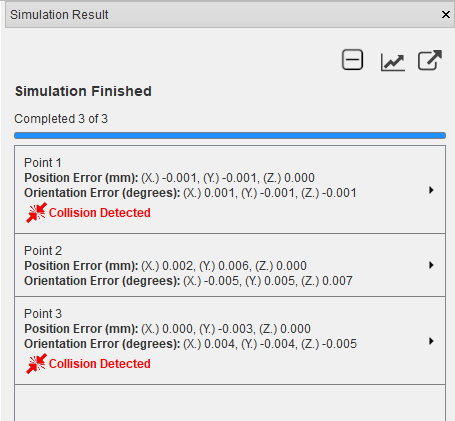
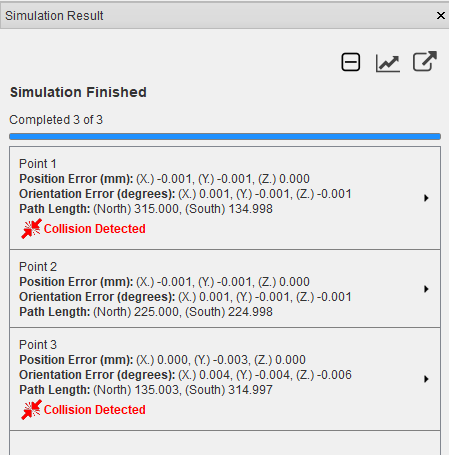
Updates docs on path length plotter and more, adds update check setting to preference dialog, and allows project files to be loaded via command line

diff --git a/sscanss/ui/dialogs/preferences.py b/sscanss/ui/dialogs/preferences.py
@@ -19,6 +19,7 @@ class Preferences(QtWidgets.QDialog):
 
         self.changed_settings = {}
         self.group = []
+        self.global_names = []
         layout = QtWidgets.QVBoxLayout()
         self.setLayout(layout)
 
@@ -216,7 +217,20 @@ class Preferences(QtWidgets.QDialog):
         main_layout = QtWidgets.QVBoxLayout()
 
         layout = QtWidgets.QHBoxLayout()
+        key = settings.Key.Check_Update
+        self.global_names.append(key)
+        value = settings.value(key)
+        checkbox = QtWidgets.QCheckBox('Check for updates on startup')
+        checkbox.setChecked(value)
+        checkbox.stateChanged.connect(lambda ignore, c=checkbox: self.changeSetting(c.isChecked()))
+        checkbox.setProperty(self.prop_name, (key, value))
+        layout.addWidget(checkbox)
+        main_layout.addLayout(layout)
+        main_layout.addSpacing(10)
+
+        layout = QtWidgets.QHBoxLayout()
         key = settings.Key.Custom_Instruments_Path
+        self.global_names.append(key)
         value = settings.value(key)
         layout.addWidget(QtWidgets.QLabel('Custom Instruments: '))
         path_picker = FilePicker(value, select_folder=True)
@@ -224,6 +238,7 @@ class Preferences(QtWidgets.QDialog):
         path_picker.value_changed.connect(self.changeSetting)
         layout.addWidget(path_picker)
         main_layout.addLayout(layout)
+
         main_layout.addStretch(1)
         frame.setLayout(main_layout)
         self.stack.addWidget(create_scroll_area(frame))
@@ -407,7 +422,7 @@ class Preferences(QtWidgets.QDialog):
         reset_undo_stack = False
         for key, value in self.changed_settings.items():
             # For now general setting are considered as system settings
-            if key.value.startswith(settings.Group.General.value):
+            if key in self.global_names:
                 settings.system.setValue(key.value, value)
             else:
                 settings.setValue(key, value, default)

diff --git a/editor/main.py b/editor/main.py
@@ -1,6 +1,7 @@
 import datetime
 import logging
 import os
+import pathlib
 import sys
 import webbrowser
 from jsonschema.exceptions import ValidationError
@@ -304,13 +305,23 @@ class Window(QtWidgets.QMainWindow):
         self.controls.close()
         self.message.setText('')
 
-    def openFile(self):
-        """Loads an instrument description file selected from a file dialog."""
-        filename, _ = QtWidgets.QFileDialog.getOpenFileName(self, 'Open Instrument Description File', '',
-                                                            'Json File (*.json)')
-        
-        if not filename:
+    def openFile(self, filename=''):
+        """Loads an instrument description file from a given file path. If filename
+        is empty, a file dialog will be opened.
+
+        :param filename: full path of file
+        :type filename: str
+        """
+
+        if self.unsaved and not self.showSaveDiscardMessage():
             return
+
+        if not filename:
+            filename, _ = QtWidgets.QFileDialog.getOpenFileName(self, 'Open Instrument Description File', '',
+                                                                'Json File (*.json)')
+
+            if not filename:
+                return
 
         try:
             with open(filename, 'r') as idf:
@@ -479,8 +490,16 @@ if __name__ == '__main__':
     setup_logging('editor.log')
     app = QtWidgets.QApplication([])
     app.setStyleSheet(style)
-    w = Window()
-    w.show()
+    window = Window()
+
+    if sys.argv[1:]:
+        file_path = sys.argv[1]
+        if pathlib.PurePath(file_path).suffix == '.json':
+            window.openFile(file_path)
+        else:
+            window.message.setText(f'{file_path} could not be opened because it has an unknown file type')
+
+    window.show()
     exit_code = app.exec_()
     logging.shutdown()
     sys.exit(exit_code)

diff --git a/sscanss/main.py b/sscanss/main.py
@@ -1,6 +1,7 @@
 from contextlib import suppress
 import logging
 import multiprocessing
+import pathlib
 import sys
 from PyQt5 import QtCore, QtWidgets
 from sscanss.config import setup_logging, STATIC_PATH, IMAGES_PATH
@@ -9,7 +10,7 @@ from sscanss.ui.window.view import MainWindow
 
 def ui_execute():
     # Create the GUI event loop
-    app = QtWidgets.QApplication(sys.argv)
+    app = QtWidgets.QApplication(sys.argv[:1])
 
     # Load global style
     with suppress(FileNotFoundError):
@@ -18,12 +19,20 @@ def ui_execute():
             app.setStyleSheet(style)
 
     window = MainWindow()
+
+    wait_time = 500  # time for main window to show
+    if sys.argv[1:]:
+        filename = sys.argv[1]
+        if pathlib.PurePath(filename).suffix == '.h5':
+            window.openProject(filename)
+        else:
+            msg = f'{filename} could not be opened because it has an unknown file type'
+            QtCore.QTimer.singleShot(wait_time, lambda: window.showMessage(msg))
+    else:
+        QtCore.QTimer.singleShot(wait_time, window.showNewProjectDialog)
+
     window.show()
     window.updater.check(True)
-
-    # Wait for 0.5 seconds before opening project dialog
-    QtCore.QTimer.singleShot(500, window.showNewProjectDialog)
-
     return app.exec()
 
 

diff --git a/docs/interface.rst b/docs/interface.rst
@@ -80,14 +80,14 @@ click save.
 Change preferences
 ******************
 The Preferences contains settings to customize SScanSS 2. The preference dialog can be opened using the shortcut
-**Ctrl + Shift + P** or by clicking  **Edit > Preferences**.
+**Ctrl + Shift + P** or by clicking **Edit > Preferences** in the main menu.
 
 The preferences dialog divides the setting into 3 sections: General, Graphics and Simulation.
 
-* The general section allows a custom path for extra instrument to be set.
-* The graphics section allows the colour and sizes of most rendered object to be changed, all the graphics settings
+* In the General section, global settings such as custom instrument path and update checks can be changed.
+* In the Graphics section, the colour and sizes of most rendered object can be changed, all the graphics settings
   are self-explanatory.
-* The simulation section allows the changes to simulation accuracy, order etc. each setting is explained
+* In the Simulation section, the simulation accuracy, order etc. can be tweaked, each setting is explained in detail
   :ref:`here <advanced options>`.
 
 .. image:: images/preferences.png
@@ -98,8 +98,8 @@ The preferences dialog divides the setting into 3 sections: General, Graphics an
 Settings can be global or project specific. For the latter, clicking **Accept** will save the changes to the project
 settings and **Reset** returns the project settings to their default values. The project setting will be written to the
 hdf save file on saving the project. To change the global defaults select **Reset Default** or **Set As Default** from
-the **Reset** or **Accept** dropdown respectively. General settings are global only while other settings could be either.
-Clicking **Cancel** will close the dialog without saving any changes.
+the **Reset** or **Accept** drop-down menu respectively. General settings are global only while other settings could be
+either. Clicking **Cancel** will close the dialog without saving any changes.
 
 .. note:: The **Accept** button is disabled if no values are changed.
 

diff --git a/docs/overview.rst b/docs/overview.rst
@@ -48,10 +48,18 @@ software.
 ******************
 Updating SScanSS 2
 ******************
-SScanSS 2 automatically checks for update when the software is opened. To change this behaviour, do the following:
+SScanSS 2 automatically checks for updates when the software is opened. To change this behaviour, do the following:
 
-1. Click **Help > Check for Update** in the menu, to update dialog.
-2. In the dialog, uncheck the **Check for updates on startup** checkbox.
+1. Click **Edit > Preferences** in the main menu to open the preference dialog.
+2. In the General section, uncheck the **Check for updates on startup** checkbox.
 
-After a check, the software will notify the user if a new release is available and provide a hyperlink to download the
-installer for the new version.
+.. tip:: You can also change the update behaviour from the update dialog by clicking **Help > Check for Update** in
+         the main menu and uncheck the **Check for updates on startup** checkbox.
+
+After an update check, the software will notify the user if a new release is available and provide a hyperlink to
+download the installer for the new version.
+
+.. image:: images/update_dialog.png
+   :scale: 80
+   :alt: Update dialog showing successful check
+   :align: center

diff --git a/docs/simulation.rst b/docs/simulation.rst
@@ -122,6 +122,16 @@ to zero if beam hits the gauge volume outside the sample or an entry/exit face p
 The computed path lengths for each measurement will be written into the simulation results and a plot of the path
 lengths for each alignment group can be viewed by clicking the plot |plot| button in the **Simulation Result** window.
 
+.. image:: images/path_length_plotter.png
+   :scale: 50
+   :alt: Path Length Plotter
+   :align: center
+
+In the plot dialog, the path lengths can be grouped by vector alignment or detector using the provided drop-down list,
+when more than one detector or vector alignment is present. A grid can be displayed on the plot by clicking on the
+**Show Grid** checkbox. The path length values can also be exported as a PNG image or a text file by clicking the
+**Export** button on the dialog and selecting the desired file type in the save file dialog.
+
 *************
 Export script
 *************
